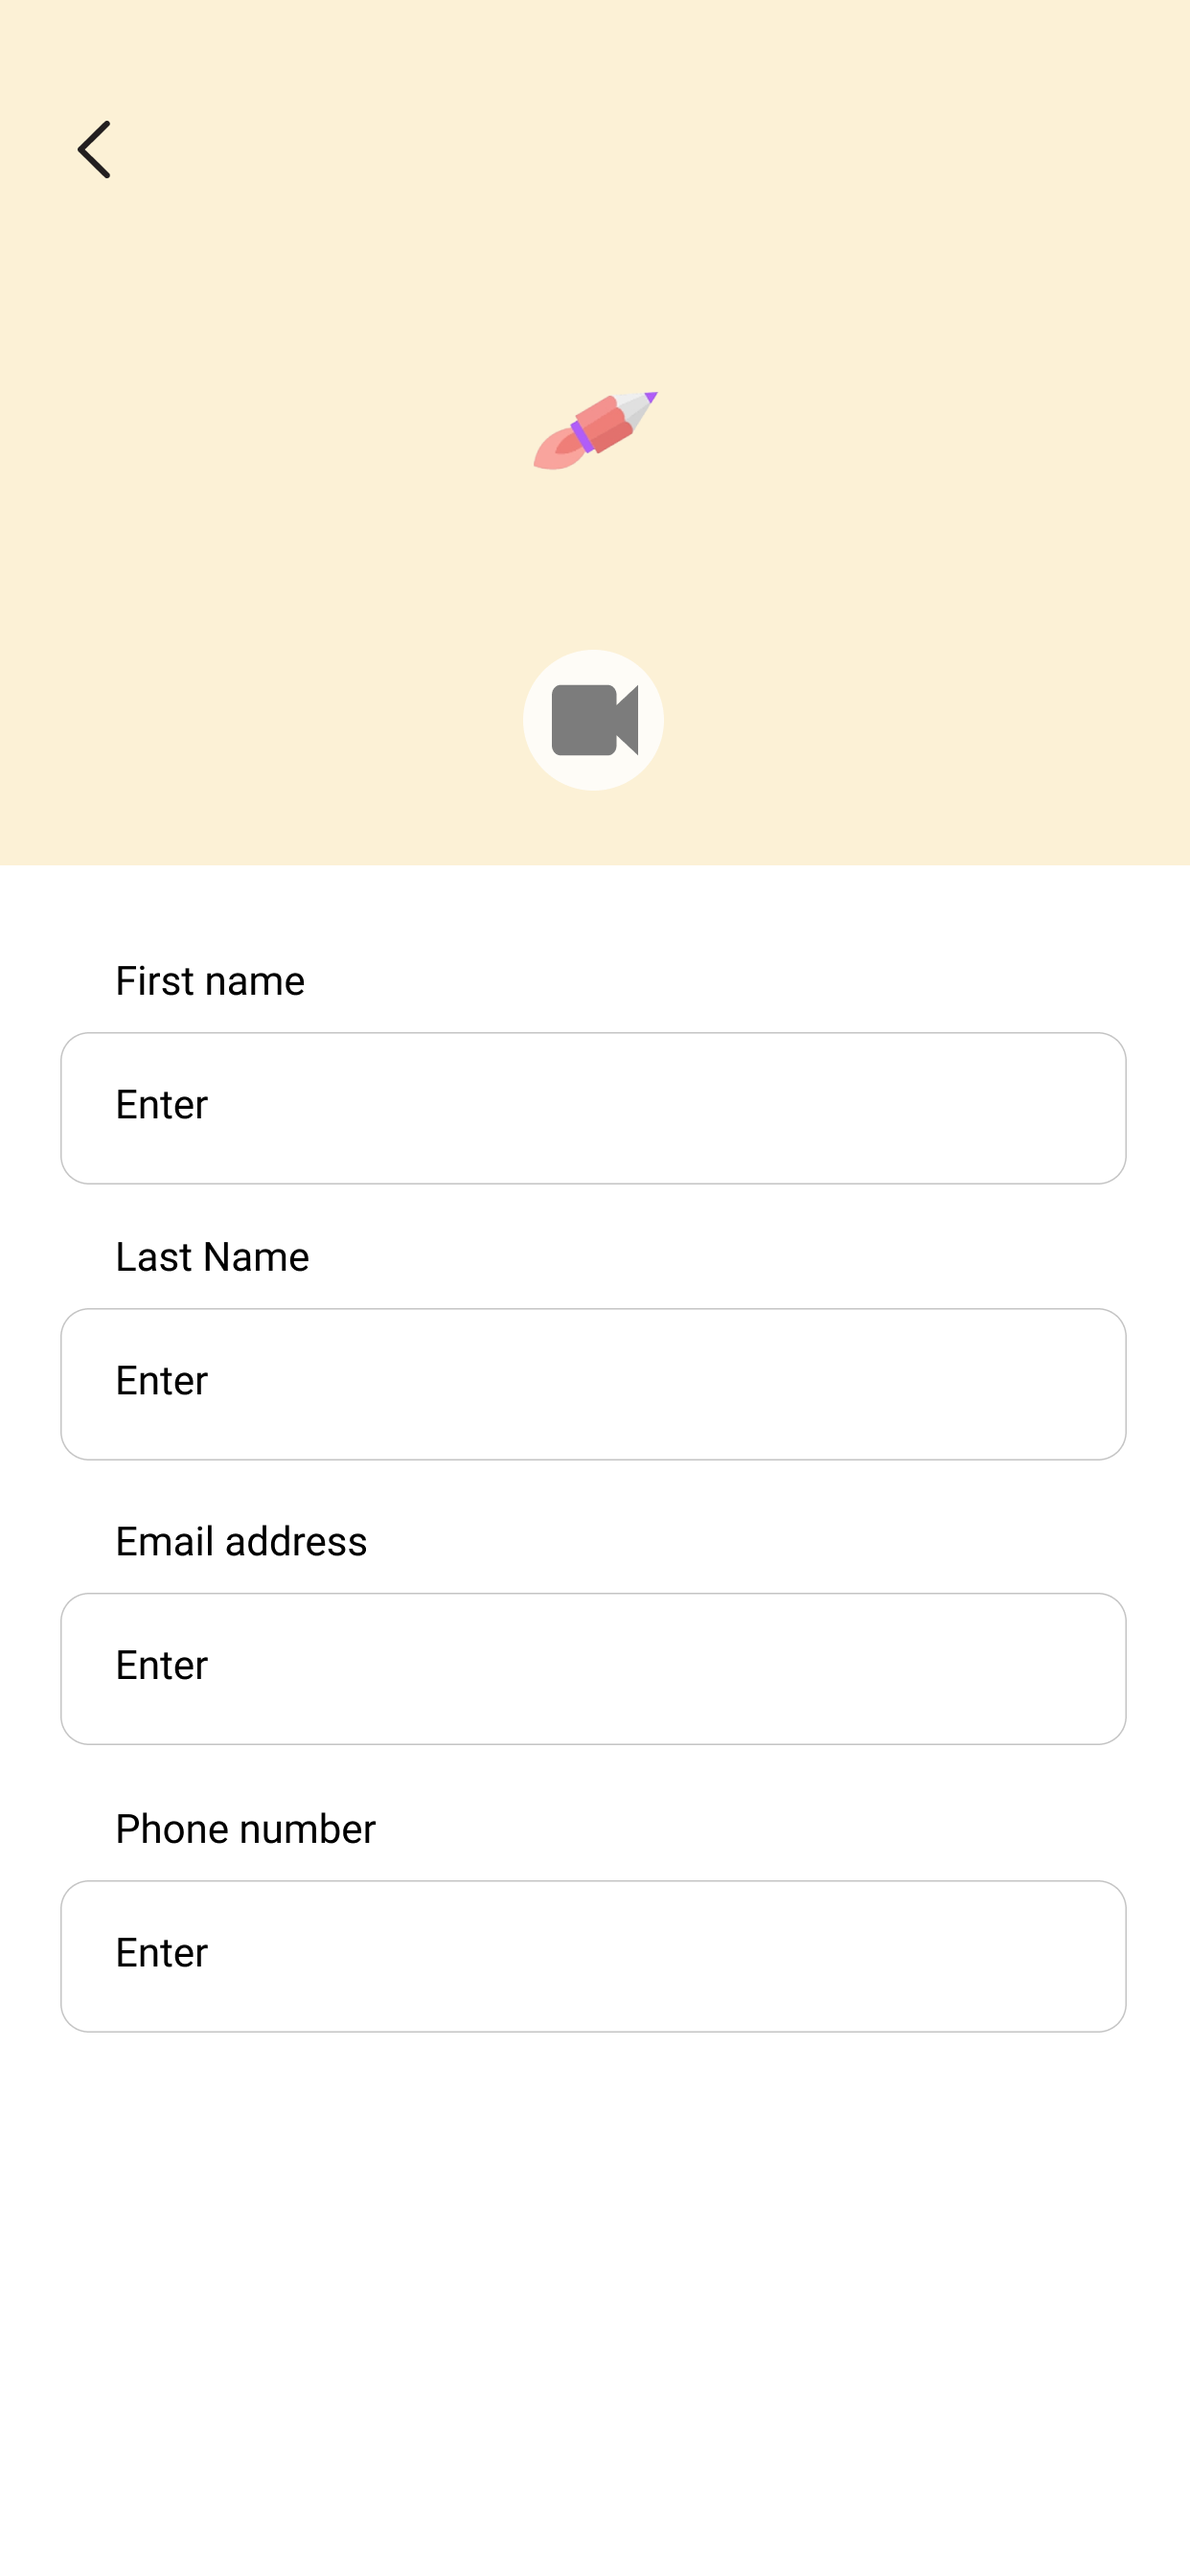
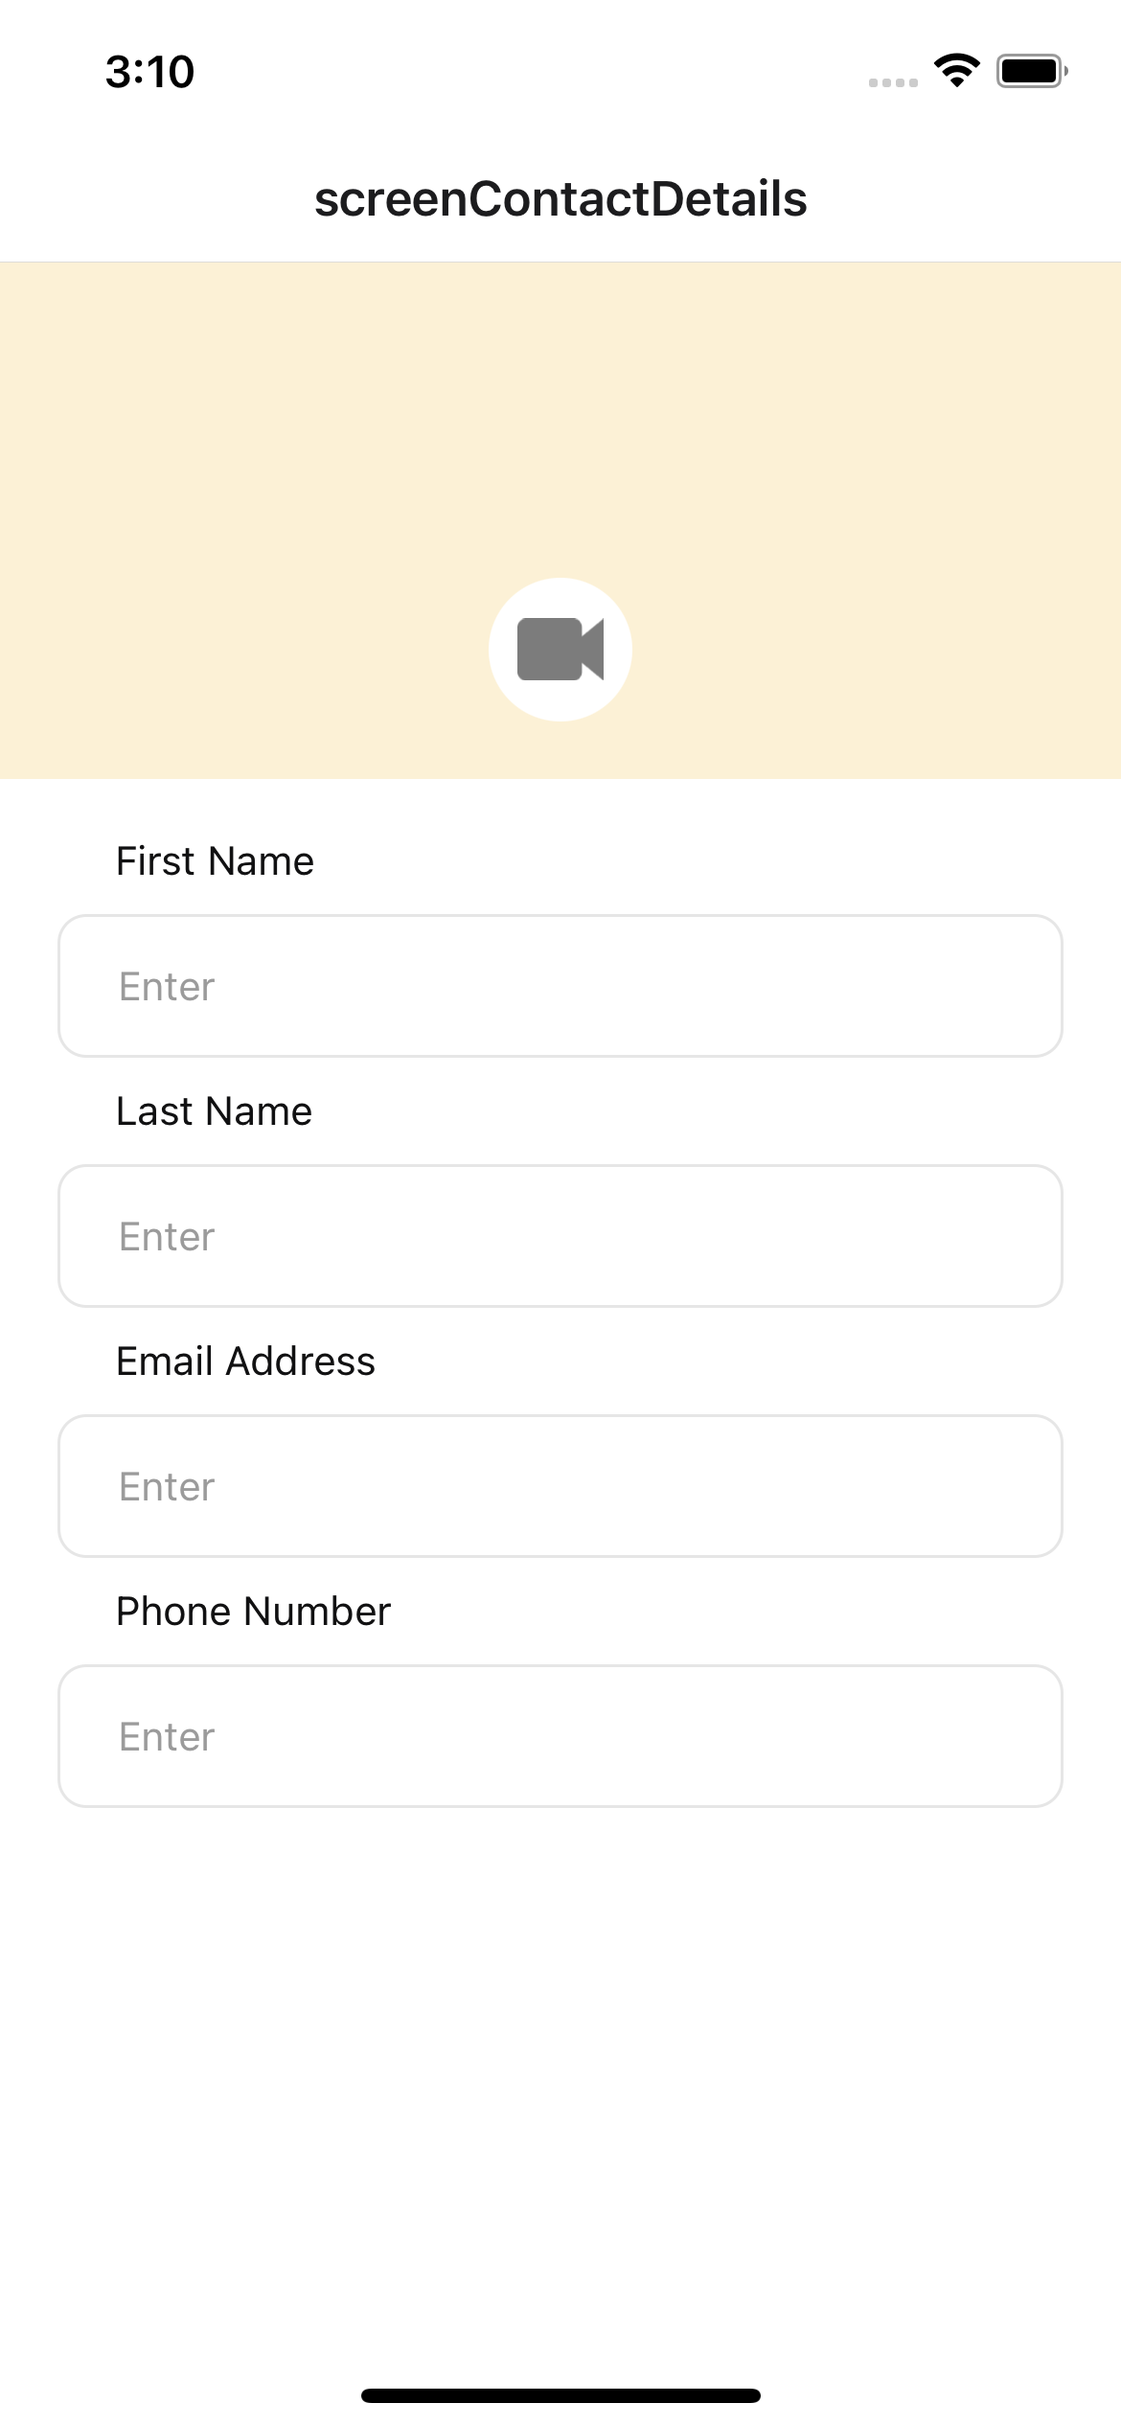
contact detials screen added

diff --git a/screens/screen-contact-details/index.js b/screens/screen-contact-details/index.js
@@ -1,14 +1,45 @@
-import React from "react";
-import {
-  Text,
-  View,
-  StyleSheet
-} from "react-native";
+import React, { useState } from "react";
+import { Text, View, StyleSheet, Image, TextInput } from "react-native";
 
 const ContactDetails = () => {
+  const [firstName, setFirstName] = useState("");
+  const [lastName, setLastName] = useState("");
+  const [email, setEmail] = useState("");
+  const [phone, setPhone] = useState("");
   return (
     <View style={styles.container}>
-      <Text style={styles.heading}>Contact Details</Text>
+      <View style={styles.header}>
+        <View style={styles.roundIconContainer}>
+          <Image
+            source={require("./assets/videoIcon.png")}
+            style={styles.icon}
+          />
+        </View>
+      </View>
+      <Input
+        text="First Name"
+        value={firstName}
+        onChange={setFirstName}
+        containerStyle={styles.input}
+      />
+      <Input
+        text="Last Name"
+        value={lastName}
+        onChange={setLastName}
+        containerStyle={styles.input}
+      />
+      <Input
+        text="Email Address"
+        value={email}
+        onChange={setEmail}
+        containerStyle={styles.input}
+      />
+      <Input
+        text="Phone Number"
+        value={phone}
+        onChange={setPhone}
+        containerStyle={styles.input}
+      />
     </View>
   );
 };
@@ -17,9 +48,115 @@ const styles = StyleSheet.create({
     flex: 1,
     backgroundColor: "#fff"
   },
-  heading: {
-    fontSize: 20
+  header: {
+    justifyContent: "space-around",
+    alignItems: "flex-end",
+    backgroundColor: "#FCF1D6",
+    height: 180,
+    flexDirection: "row",
+    paddingHorizontal: 30,
+    paddingVertical: 20,
+    marginBottom: 20
+  },
+  roundIconContainer: {
+    width: 50,
+    height: 50,
+    backgroundColor: "#fff",
+    borderRadius: 25,
+    justifyContent: "center",
+    alignItems: "center"
+  },
+  icon: {
+    width: 30,
+    height: 30,
+    resizeMode: "contain"
+  },
+  input: {
+    paddingHorizontal: 20
   }
 });
 
 export default ContactDetails;
+
+const Input = props => {
+  return (
+    <View style={[inputStyles.inputContainer, props.containerStyle]}>
+      {props.text ? (
+        <Text style={inputStyles.inputText}>{props.text}</Text>
+      ) : null}
+
+      <TextInput
+        style={[
+          inputStyles.input,
+          props.style,
+          props.textArea ? inputStyles.textArea : null
+        ]}
+        placeholder={props.placeholder ? props.placeholder : "Enter"}
+        value={props.value}
+        onChangeText={() => props.onChange()}
+        placeholderTextColor={
+          props.placeholderTextColor ? props.placeholderTextColor : "#9B9B9B"
+        }
+        editable={props.editable !== false}
+        autoCapitalize="none"
+        autoCorrect={false}
+        multiline={props.textArea ? true : false}
+      />
+      {props.errorText ? (
+        <Text style={inputStyles.error}>{props.errorText}</Text>
+      ) : null}
+      {props.icon ? (
+        <Image
+          source={props.icon}
+          style={
+            props.text ? inputStyles.iconWithText : inputStyles.iconWithoutText
+          }
+        />
+      ) : null}
+      <View style={styles.children}>{props.children}</View>
+    </View>
+  );
+};
+
+const inputStyles = StyleSheet.create({
+  inputContainer: {
+    flexDirection: "column",
+    justifyContent: "center"
+  },
+  inputText: {
+    fontSize: 14,
+    marginLeft: 20,
+    color: "#111112"
+  },
+  input: {
+    borderWidth: 1,
+    borderColor: "#e6e6e6",
+    borderRadius: 10,
+    padding: 10,
+    paddingLeft: 20,
+    marginVertical: 10,
+    width: "100%",
+    height: 50,
+    color: "#000"
+  },
+  iconWithText: {
+    position: "absolute",
+    right: 30,
+    top: 48,
+    width: 15,
+    height: 15,
+    resizeMode: "contain"
+  },
+  iconWithoutText: {
+    position: "absolute",
+    right: 30,
+    top: 28,
+    width: 15,
+    height: 15,
+    resizeMode: "contain"
+  },
+  textArea: {
+    height: 150
+  },
+  children: {}
+});

diff --git a/modules/index.js b/modules/index.js
@@ -2,7 +2,7 @@ import mods from "./*/index.js";
 import { getModules } from "./modules.js";
 
 export const modules = getModules(mods);
-export const initialRoute = "screenConferenceMeeting";
+export const initialRoute = "screenContactDetails";
 // export const initialRoute = modules[0].value.title;
 export const slices = modules
   .filter(mod => mod.value.slice)
